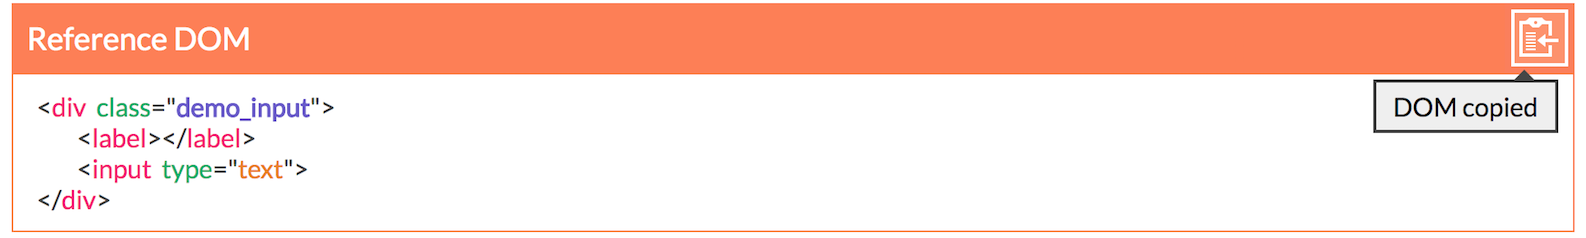
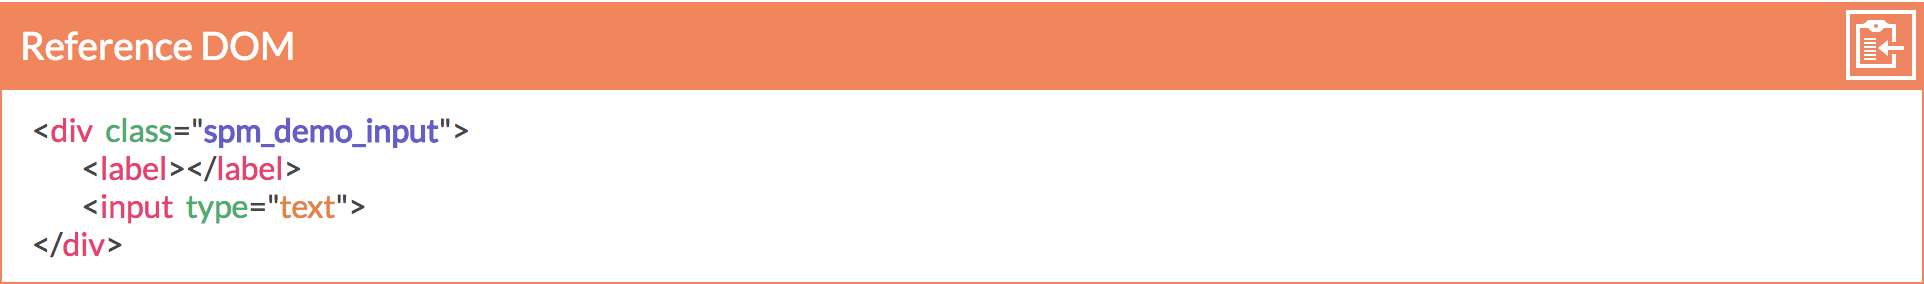
change documentation-tutorial with spm user and add image in assets

Changed region(s): [[0.0, 0.0, 1.0, 1.0]]

diff --git a/src/app/pages/documentation/pages/documentation-tutorial/documentation-tutorial.component.html b/src/app/pages/documentation/pages/documentation-tutorial/documentation-tutorial.component.html
@@ -5,7 +5,7 @@
 		<h2>Browse modules</h2>
 		<doc-description>In this tutorial, we are looking for a design for the main title of our current or future web project. We go on spm-style.com page and browse to the modules section.</doc-description>
 		<img src="assets/modules-nav.png" alt="example modules overview">
-		<doc-description>We can use the search bar with the “title” word to target specific modules used for titles for instance.</doc-description>
+		<doc-description>We can use the search bar with the “spm_demo_input” word to target specific modules used for titles for instance.</doc-description>
 		<img src="assets/modules-title.png" alt="example modules overview">
 		<doc-description>We can click on the module image to have more information about it.</doc-description>
 		<img src="assets/sandbox.png" alt="sandbox overview in spm">
@@ -41,28 +41,28 @@
  --></doc>
 		<doc-description>If we open our main html file in our browser, we'll see something like this :</doc-description>
 		<img src="assets/project-create.png" alt="example of project creation">
-		<h2>Install the module demo_input</h2>
-		<doc-description>We will start the installation example with the demo_input module.</doc-description>
+		<h2>Install the module spm_demo_input</h2>
+		<doc-description>We will start the installation example with the spm_demo_input module.</doc-description>
 		<doc-description>Nothing's easier : we go into our project's folder, and use the following install command:</doc-description>
 		<doc><!--
-	 --><doc-terminal-instruction content="spm module install demo_input"></doc-terminal-instruction><!--
+	 --><doc-terminal-instruction content="spm module install spm_demo_input"></doc-terminal-instruction><!--
  --></doc>
 		<doc-description>We get the following response:</doc-description>
 		<doc><!--
 	   --><doc-cli-message type="warning">default style has been set to css</doc-cli-message><!--
 	   --><doc-cli-message type="success">The following module has been added:</doc-cli-message><!--
-	   --><doc-cli-message type="console-log">demo_input@1.0.1</doc-cli-message><!--
+	   --><doc-cli-message type="console-log">spm_demo_input@1.0.1</doc-cli-message><!--
  --></doc>
  		<doc-description>Now, the <doc-highlight>spm_instances/spm_instances.js</doc-highlight> file and see what it contains:</doc-description>
 		<doc><!--
-	 --><doc-cli-message type="console-log">let demo_input = new Demo_input('name','demo_input')
+	 --><doc-cli-message type="console-log">let spm_demo_input = new Spm_demo_input('name','spm_demo_input')
 </doc-cli-message><!--
  --></doc>
 		<doc><!--
 	 --><doc-terminal-instruction content="cat spm_instances/spm_instances.scss"></doc-terminal-instruction><!--
-	 --><doc-cli-message type="console-log">@import '../spm_modules/demo_input/input.scss';</doc-cli-message><!--
+	 --><doc-cli-message type="console-log">@import '../spm_modules/spm_demo_input/input.scss';</doc-cli-message><!--
 	 --><doc-cli-message type="console-log"></doc-cli-message><!--
-	 --><doc-cli-message type="console-log">@include demo_input(lightgray,7px,700px,'demo_input');</doc-cli-message><!--
+	 --><doc-cli-message type="console-log">@include spm_demo_input(lightgray,7px,700px,'spm_demo_input');</doc-cli-message><!--
  --></doc>
  		<doc-description>The css file has been automatically generated and its name is <doc-highlight>.spm_instances.css</doc-highlight></doc-description>
  		<doc-description>Let’s open our main stylesheet, the file <doc-highlight>style.css</doc-highlight>. It contains the following code:</doc-description>
@@ -83,7 +83,7 @@
 		--><doc-cli-message type="console-log">&emsp;&emsp;&#60;h1>Project myProject successfully created !&#60;/h1></doc-cli-message><!--
 		--><doc-cli-message type="console-log"></doc-cli-message><!--
 		--><doc-cli-message type="console-log">&emsp;&emsp;&#60;script type="text/javascript" src="script.js">&#60;/script></doc-cli-message><!--
-		--><doc-cli-message type="console-log">&emsp;&emsp;&#60;script src="spm_modules/demo_input/input.js">&#60;/script></doc-cli-message><!--
+		--><doc-cli-message type="console-log">&emsp;&emsp;&#60;script src="spm_modules/spm_demo_input/input.js">&#60;/script></doc-cli-message><!--
 		--><doc-cli-message type="console-log">&emsp;&emsp;&#60;script src="spm_instances/spm_instances.js">&#60;/script></doc-cli-message><!--
 		--><doc-cli-message type="console-log">&#60;/body></doc-cli-message><!--
 		--><doc-cli-message type="console-log">&#60;/html></doc-cli-message><!--
@@ -101,14 +101,14 @@
   	 --><doc-cli-message type="console-log">&#60;body></doc-cli-message><!--
   	 --><doc-cli-message type="console-log"></doc-cli-message><!--
   	 --><doc-cli-message type="console-log">&emsp;&emsp;&#60;h1>Project myProject successfully created !&#60;/h1></doc-cli-message><!--
-  	 --><doc-cli-message type="console.log">&emsp;&emsp;&#60;div class="demo_input"></doc-cli-message><!--
+  	 --><doc-cli-message type="console.log">&emsp;&emsp;&#60;div class="spm_demo_input"></doc-cli-message><!--
   	 --><doc-cli-message type="console.log">&emsp;&emsp;&emsp;&emsp;&#60;label>&#60;/label></doc-cli-message><!--
   	 --><doc-cli-message type="console.log">&emsp;&emsp;&emsp;&emsp;&#60;input type="text"></doc-cli-message><!--
   	 --><doc-cli-message type="console.log">&emsp;&emsp;&#60;div></doc-cli-message><!--
   	 --><doc-cli-message type="console-log"></doc-cli-message><!--
   	 --><doc-cli-message type="console-log"></doc-cli-message><!--
   	 --><doc-cli-message type="console-log">&emsp;&emsp;&#60;script type="text/javascript" src="script.js">&#60;/script></doc-cli-message><!--
-  	 --><doc-cli-message type="console-log">&emsp;&emsp;&#60;script src="spm_modules/demo_input/input.js">&#60;/script></doc-cli-message><!--
+  	 --><doc-cli-message type="console-log">&emsp;&emsp;&#60;script src="spm_modules/spm_demo_input/input.js">&#60;/script></doc-cli-message><!--
   	 --><doc-cli-message type="console-log">&emsp;&emsp;&#60;script src="spm_instances/spm_instances.js">&#60;/script></doc-cli-message><!--
   	 --><doc-cli-message type="console-log">&#60;/body></doc-cli-message><!--
   	 --><doc-cli-message type="console-log">&#60;/html></doc-cli-message><!--
@@ -126,8 +126,6 @@
 		<doc-description>It will open a prompter asking for the different parameters’ values:</doc-description>
 		<doc><!--
 	 --><doc-terminal-instruction content="spm module generate customInput"></doc-terminal-instruction><!--
-	 --><doc-terminal-instruction type="inquirer" content="value of css variable fontColor" [arg]="['red']"></doc-terminal-instruction><!--
-	 --><doc-terminal-instruction content="spm module generate customInput"></doc-terminal-instruction><!--
 	 --><doc-terminal-instruction type="inquirer" content="value of css variable color-label" [arg]="['lightblue']"></doc-terminal-instruction><!--
 	 --><doc-terminal-instruction type="inquirer" content="value of css variable radius-input" [arg]="['10px']"></doc-terminal-instruction><!--
 	 --><doc-terminal-instruction type="inquirer" content="value of css variable max-width-demo-input" [arg]="['700px']"></doc-terminal-instruction><!--
@@ -135,12 +133,12 @@
  --></doc>
 		<doc-description>Eventually, the module is generated:</doc-description>
 		<doc><!--
-	 --><doc-cli-message type="success">css instance customInput of module demo_input has been generated</doc-cli-message><!--
+	 --><doc-cli-message type="success">css instance customInput of module spm_demo_input has been generated</doc-cli-message><!--
  --></doc>
 		<doc-description>our <doc-highlight>spm_instances.js</doc-highlight> file has been modified :</doc-description>
 		<doc><!--
-	 --><doc-terminal-instruction type="console-log" content="let demo_input = new Demo_input('name','demo_input')"></doc-terminal-instruction><!--
-	 --><doc-terminal-instruction type="console-log" content="let customInput = new Demo_input(age,'customInput')"></doc-terminal-instruction><!--
+	 --><doc-terminal-instruction type="console-log" content="let spm_demo_input = new Spm_demo_input('name','demo_input')"></doc-terminal-instruction><!--
+	 --><doc-terminal-instruction type="console-log" content="let customInput = new Spm_demo_input(age,'customInput')"></doc-terminal-instruction><!--
  --></doc>
 		<doc-description>and our <doc-highlight>spm_instance.scss</doc-highlight> file has been modified too:</doc-description>
 		<doc><!--
@@ -219,16 +217,14 @@
 	--><doc-terminal-instruction type="console-log" content ="&emsp;&emsp;background-color: red;"></doc-terminal-instruction><!--
 	--><doc-terminal-instruction type="console-log" content ="&emsp;&emsp;width: 30px;"></doc-terminal-instruction><!--
 	--><doc-terminal-instruction type="console-log" content ="&emsp;&emsp;height: 20px;"></doc-terminal-instruction><!--
-	--><doc-terminal-instruction type="console-log" content ="&emsp;&emsp;box-shadow: inset 1px 0 0 1px white,"></doc-terminal-instruction><!--
-	--><doc-terminal-instruction type="console-log" content ="&emsp;&emsp;	inset -12px 0 0 1px white;"></doc-terminal-instruction><!--
+	--><doc-terminal-instruction type="console-log" content ="&emsp;&emsp;box-shadow: inset 1px 0 0 1px white, inset -12px 0 0 1px white;"></doc-terminal-instruction><!--
 	--><doc-terminal-instruction type="console-log" content ="&emsp;&emsp;transition: background-color 0.2s ease-in-out, box-shadow 0.2s ease-in-out, border-color 0.2s ease-in-out;"></doc-terminal-instruction><!--
 	--><doc-terminal-instruction type="console-log" content ="}"></doc-terminal-instruction><!--
 	--><doc-terminal-instruction type="console-log" content =""></doc-terminal-instruction><!--
 	--><doc-terminal-instruction type="console-log" content =".myModule input:checked {"></doc-terminal-instruction><!--
 	--><doc-terminal-instruction type="console-log" content ="&emsp;&emsp;background-color: blue;"></doc-terminal-instruction><!--
-	--><doc-terminal-instruction type="console-log" content ="&emsp;&emsp;box-shadow: inset 12px 0 0 1px white,"></doc-terminal-instruction><!--
-	--><doc-terminal-instruction type="console-log" content ="&emsp;&emsp;	inset -1px 0 0 1px white;"></doc-terminal-instruction><!--
-	--><doc-terminal-instruction type="console-log" content ="&emsp;&emsp;	border-color: blue;"></doc-terminal-instruction><!--
+	--><doc-terminal-instruction type="console-log" content ="&emsp;&emsp;box-shadow: inset 12px 0 0 1px white, inset -1px 0 0 1px white;"></doc-terminal-instruction><!--
+	--><doc-terminal-instruction type="console-log" content ="&emsp;&emsp;border-color: blue;"></doc-terminal-instruction><!--
 	--><doc-terminal-instruction type="console-log" content ="}"></doc-terminal-instruction><!--
 	--><doc-terminal-instruction type="console-log" content =""></doc-terminal-instruction><!--
 	--><doc-terminal-instruction type="console-log" content =".myModule input.radius {"></doc-terminal-instruction><!--
@@ -262,7 +258,7 @@
 		<doc-description>The following actions are related to how your module looks like when the users arrive on its dedicated page in our sandbox.</doc-description>
 		<doc-description>First of all, we want to declare the classes we use in our module and not in other modules</doc-description>
 		<doc><!--
-	 --><doc-terminal-instruction content="spm module edit --classes ='radius, pointer'"></doc-terminal-instruction><!--
+	 --><doc-terminal-instruction content="spm module edit --classes='radius, pointer'"></doc-terminal-instruction><!--
 	 --><doc-cli-message type="success">module's key classes successfully updated to radius,pointer</doc-cli-message><!--
  --></doc>
 		<doc-description>After that, we want to declare the classes that will be activated by default when we make a screenshot of our module for the list. Here we want pointer to be active, not radius.</doc-description>
@@ -318,7 +314,7 @@
   	 --><doc-cli-message type="console-log">&#60;body></doc-cli-message><!--
   	 --><doc-cli-message type="console-log"></doc-cli-message><!--
   	 --><doc-cli-message type="console-log">&emsp;&emsp;&#60;h1>Project myProject successfully created !&#60;/h1></doc-cli-message><!--
-  	 --><doc-cli-message type="console.log">&emsp;&emsp;&#60;div class="demo_input"></doc-cli-message><!--
+  	 --><doc-cli-message type="console.log">&emsp;&emsp;&#60;div class="spm_demo_input"></doc-cli-message><!--
   	 --><doc-cli-message type="console.log">&emsp;&emsp;&emsp;&emsp;&#60;label>&#60;/label></doc-cli-message><!--
   	 --><doc-cli-message type="console.log">&emsp;&emsp;&emsp;&emsp;&#60;input type="text"></doc-cli-message><!--
   	 --><doc-cli-message type="console.log">&emsp;&emsp;&#60;div></doc-cli-message><!--
@@ -334,7 +330,7 @@
 	 --><doc-cli-message type="console-log">&emsp;&emsp;&#60;/div></doc-cli-message><!--
   	 --><doc-cli-message type="console-log"></doc-cli-message><!--
   	 --><doc-cli-message type="console-log">&emsp;&emsp;&#60;script type="text/javascript" src="script.js">&#60;/script></doc-cli-message><!--
-  	 --><doc-cli-message type="console-log">&emsp;&emsp;&#60;script src="spm_modules/demo_input/input.js">&#60;/script></doc-cli-message><!--
+  	 --><doc-cli-message type="console-log">&emsp;&emsp;&#60;script src="spm_modules/spm_demo_input/demo_input.js">&#60;/script></doc-cli-message><!--
   	 --><doc-cli-message type="console-log">&emsp;&emsp;&#60;script src="spm_instances/spm_instances.js">&#60;/script></doc-cli-message><!--
   	 --><doc-cli-message type="console-log">&#60;/body></doc-cli-message><!--
   	 --><doc-cli-message type="console-log">&#60;/html></doc-cli-message><!--
@@ -344,12 +340,12 @@
 		<doc-description>You can use the generate command to create a new instance of your module with a different javascript variable, hence a different message.</doc-description>
 		<doc-description>Whenever you want to use your module in another project or even in another module, just use: spm install <doc-highlight>yourName</doc-highlight>_myModule</doc-description>
 		<doc><!--
-	 --><doc-terminal-instruction content="spm install adrien_myModule"></doc-terminal-instruction><!--
+	 --><doc-terminal-instruction content="spm module install adrien_myModule"></doc-terminal-instruction><!--
 	 --><doc-cli-message type="warning">default style has been set to css</doc-cli-message><!--
 	 --><doc-cli-message type="success">The following module has been added:</doc-cli-message><!--
 	 --><doc-cli-message type="console-log" content="adrien_myModule@1.0.0"></doc-cli-message><!--
  --></doc>
-		<doc-description>Congratulations ! You are now able to install, customize and publish modules. A great power is at your fingertips now. Don’t hesitate to let us know how you like spm here ! For any issue with our tool, we will be more than happy to solve it for you. Meanwhile, a complete documentation with advanced usage is available at <doc-intra-link link="">spm-style.com/documentation</doc-intra-link>.</doc-description>
+		<doc-description>Congratulations ! You are now able to install, customize and publish modules. A great power is at your fingertips now. Don’t hesitate to let us know how you like spm here ! For any issue with our tool, we will be more than happy to solve it for you. Meanwhile, a complete documentation with advanced usage is available at <doc-intra-link link="">spm-style.com/documentation</doc-intra-link>. For a quick recap of our main commands, make sure you've checked <doc-intra-link link="../cheat-sheet">our cheat-sheet</doc-intra-link>!</doc-description>
   </div>
 </section>
 
